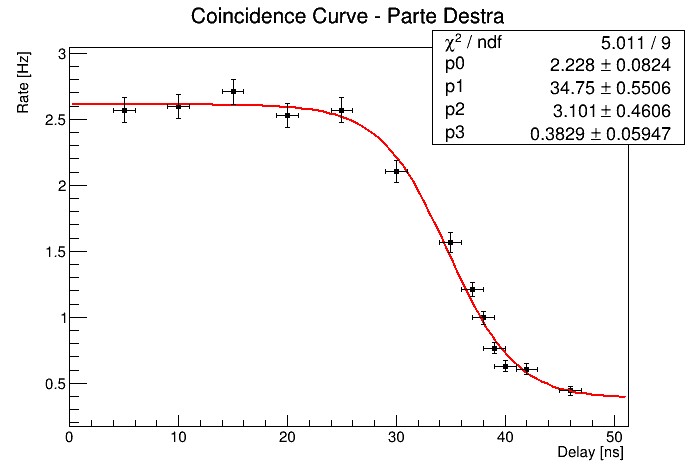
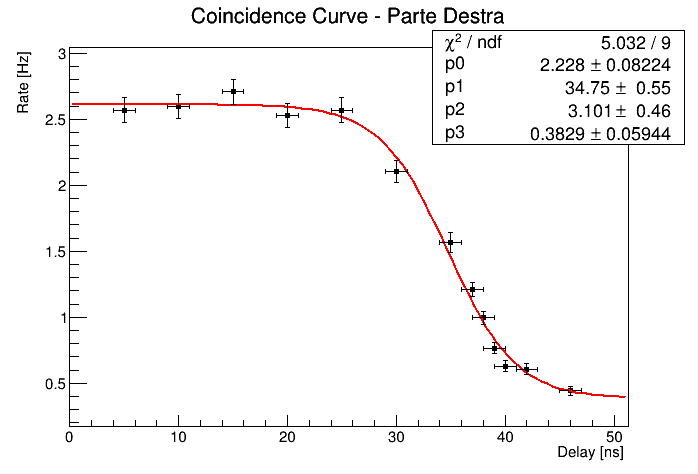
Update Coincidenze
Update Coincidenze

Changed region(s): [[0.7521, 0.0591, 0.9628, 0.2954]]

diff --git a/Analysis/coinc.C b/Analysis/coinc.C
@@ -31,13 +31,13 @@ void coinc () {
 
     double x,y,ex,ey;
 
-    ifstream data("coinc.dat"); //data file -> xdata + blank space + ydata + blank space + exdata + blank space + eydata
+    ifstream data("coincdata.dat"); //data file -> xdata + blank space + ydata + blank space + exdata + blank space + eydata
 
     if (!data) {
         cout<<"Attenzione: il file dati non esiste \n";
         return;
     }
-    while(data>>x>>y>>ey>>ex) { 
+    while(data>>x>>y>>ex>>ey) { 
         xdata.push_back(x);
         ydata.push_back(y);
         exdata.push_back(ex);
